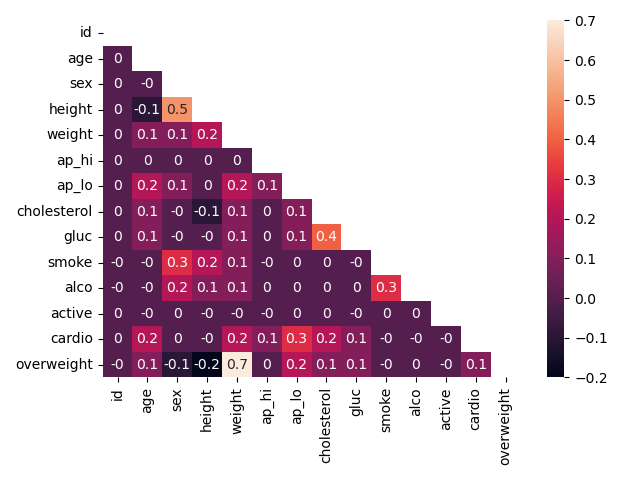
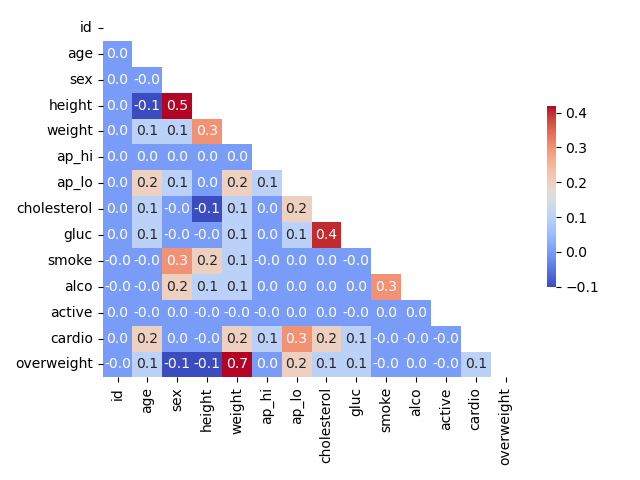
tests passed

Changed region(s): [[0.0312, 0.0312, 0.7812, 0.8125], [0.8438, 0.0312, 0.9688, 0.7812], [0.9062, 0.7812, 0.9375, 0.8125]]

diff --git a/medical_data_visualizer.py b/medical_data_visualizer.py
@@ -12,52 +12,43 @@ df['overweight'] = np.where(df['weight'].values/(df['height'].values/100)**2 > 2
 # 3 normalized data by changing cholestorol & gluc values to 1 (bad) if current value is > 1 else 0 (good)
 df[['cholesterol', 'gluc']] = np.where(df[['cholesterol', 'gluc']].values > 1, 1, 0)
 
-#cleaning data by filtering out incorrect data
-df = df[df['ap_lo'] <= df['ap_hi']]
-df = df[df['height'] >= df['height'].quantile(0.025)]
-df = df[df['height'] <= df['height'].quantile(0.975)]
-df = df[df['weight'] >= df['weight'].quantile(0.025)]
-df = df[df['weight'] <= df['weight'].quantile(0.975)]
-
 # 4
 def draw_cat_plot():
     # 5 created new dataframe for cat plot in long format
     df_cat = pd.melt(df, id_vars=['cardio'], value_vars=['active', 'alco', 'cholesterol', 'gluc', 'overweight', 'smoke'])
 
-
     # 6 grouped and reformatted data and calculated counts
     df_cat = df_cat.groupby(['cardio', 'variable', 'value'])['variable'].count().reset_index(name='total')
     
     # 7 prouced chart using seaborn catplot method
-    chart = sns.catplot(x='variable', y='total', hue='value', kind='bar', col='cardio', data=df_cat, errorbar=None)
+    chart = sns.catplot(x='variable', y='total', hue='value', kind='bar', col='cardio', data=df_cat, errorbar=None).fig
 
     #8  Stored output in fig variable
-    
     fig = chart
-
 
     # 9
     fig.savefig('catplot.png')
     return fig
 
-
 # 10
 def draw_heat_map():
-    # 11 dataframe already cleaned after step 3
-    df_heat = df
+    # 11 cleaning dataframe by filtering out incorrect data
+    df_heat = df[(df['ap_lo'] <= df['ap_hi']) & (df['height'] >= df['height'].quantile(0.025)) 
+    & (df['height'] <= df['height'].quantile(0.975)) & (df['weight'] >= df['weight'].quantile(0.025)) 
+    & (df['weight'] <= df['weight'].quantile(0.975))]
 
     # 12 calculate correlation matrix
     corr = round(df_heat.corr(), 1)
 
     # 13 Data masking is a technique used to selectively highlight or hide certain data points based on specific conditions. This can help focus attention on particular areas of interest or patterns within the dataset.
-    # it is used here to mask the top portion of the heatmap
+    # trui returns a copy of an array with the elements below the k-th diagonal zeroed (upper triangle of array) and ones_like is used to get an array of ones with the same shape and type as an existing array
     mask = np.triu(np.ones_like(corr, dtype=bool))
 
     # 14 Setting up the matplotlib figure
     fig, ax = plt.subplots()
 
-    # 15 plot correlation matrix using seaborn heatmap
-    sns.heatmap(corr, annot=True, mask = mask, ax = ax)
+    # 15 plot correlation matrix using seaborn heatmap.  With robust true the colormap (legend) range is computed with robust quantiles instead of the extreme values with annot true data values are written in each cell fmt is set to output data to 1 decimal place cmap set to coolwarm to represent temperature scale and cbar_kws is used to shrink the colorbar(legend) by half
+    sns.heatmap(corr, robust=True, annot=True, mask = mask, ax = ax, fmt='.1f', cmap='coolwarm', cbar_kws={'shrink': 0.5})
 
     # prevent labels being cut off in png
     plt.tight_layout()

diff --git a/main.py b/main.py
@@ -7,4 +7,4 @@ medical_data_visualizer.draw_cat_plot()
 medical_data_visualizer.draw_heat_map()
 
 # Run unit tests automatically
-#main(module='test_module', exit=False)
+main(module='test_module', exit=False)
